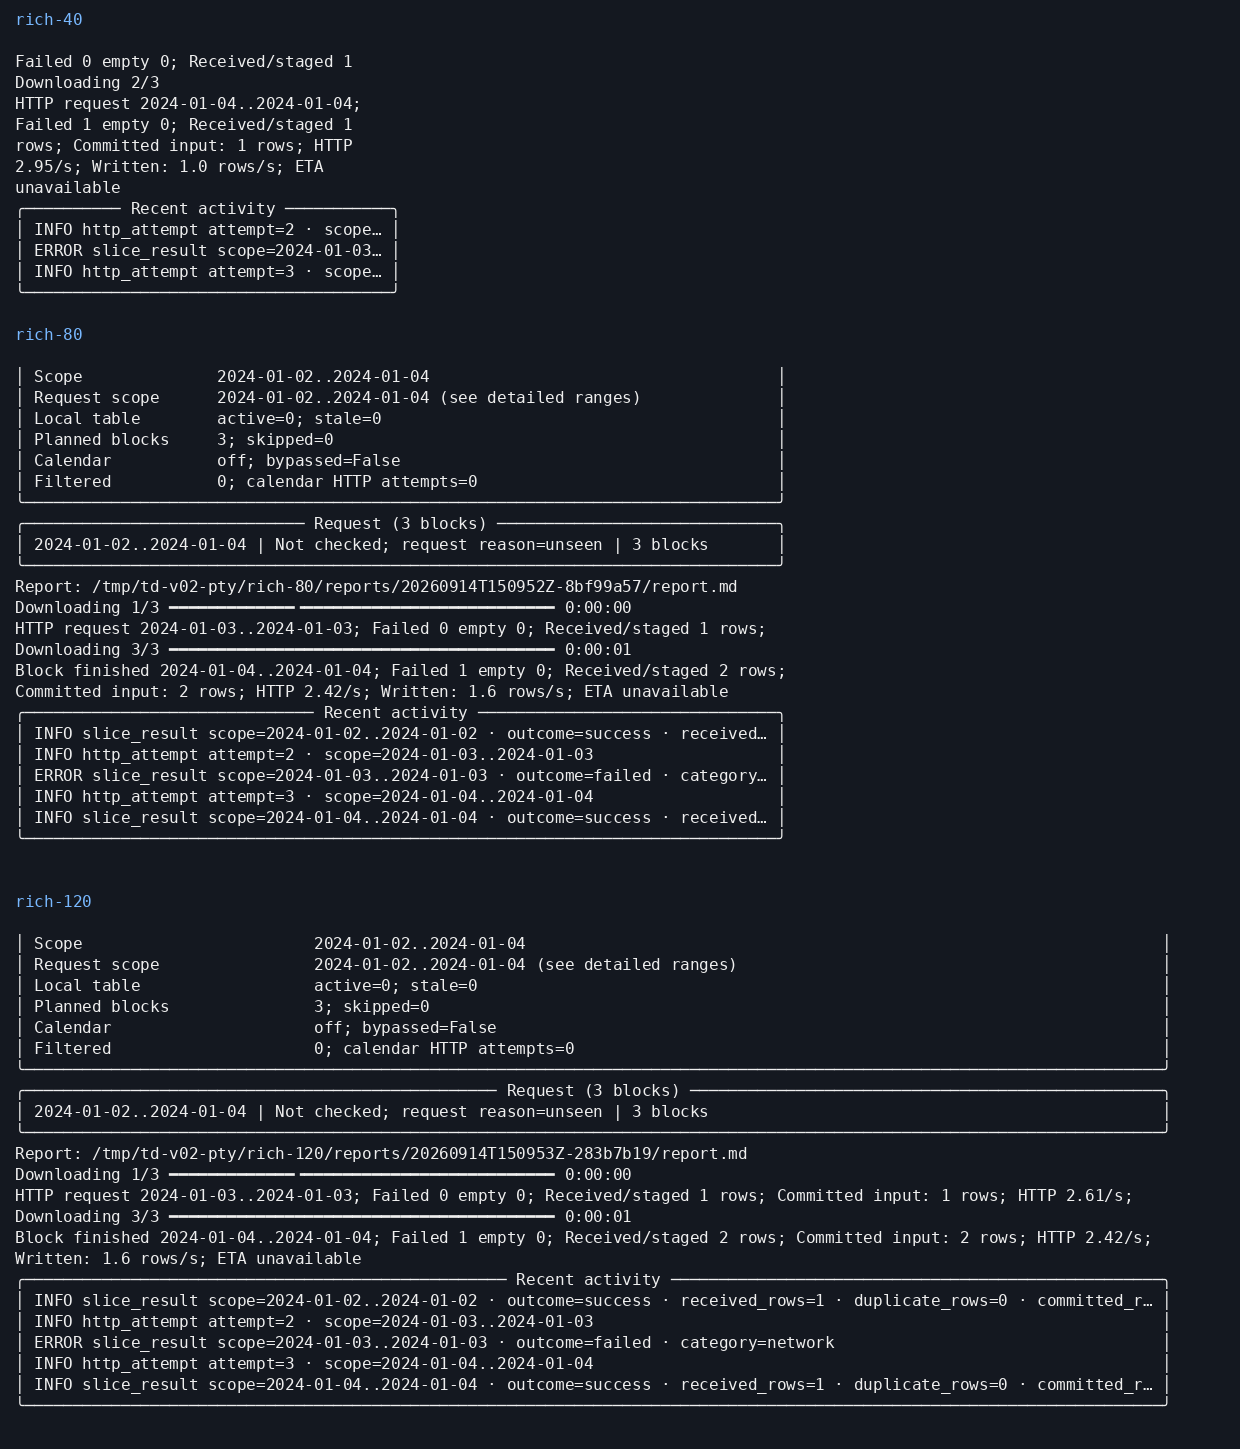
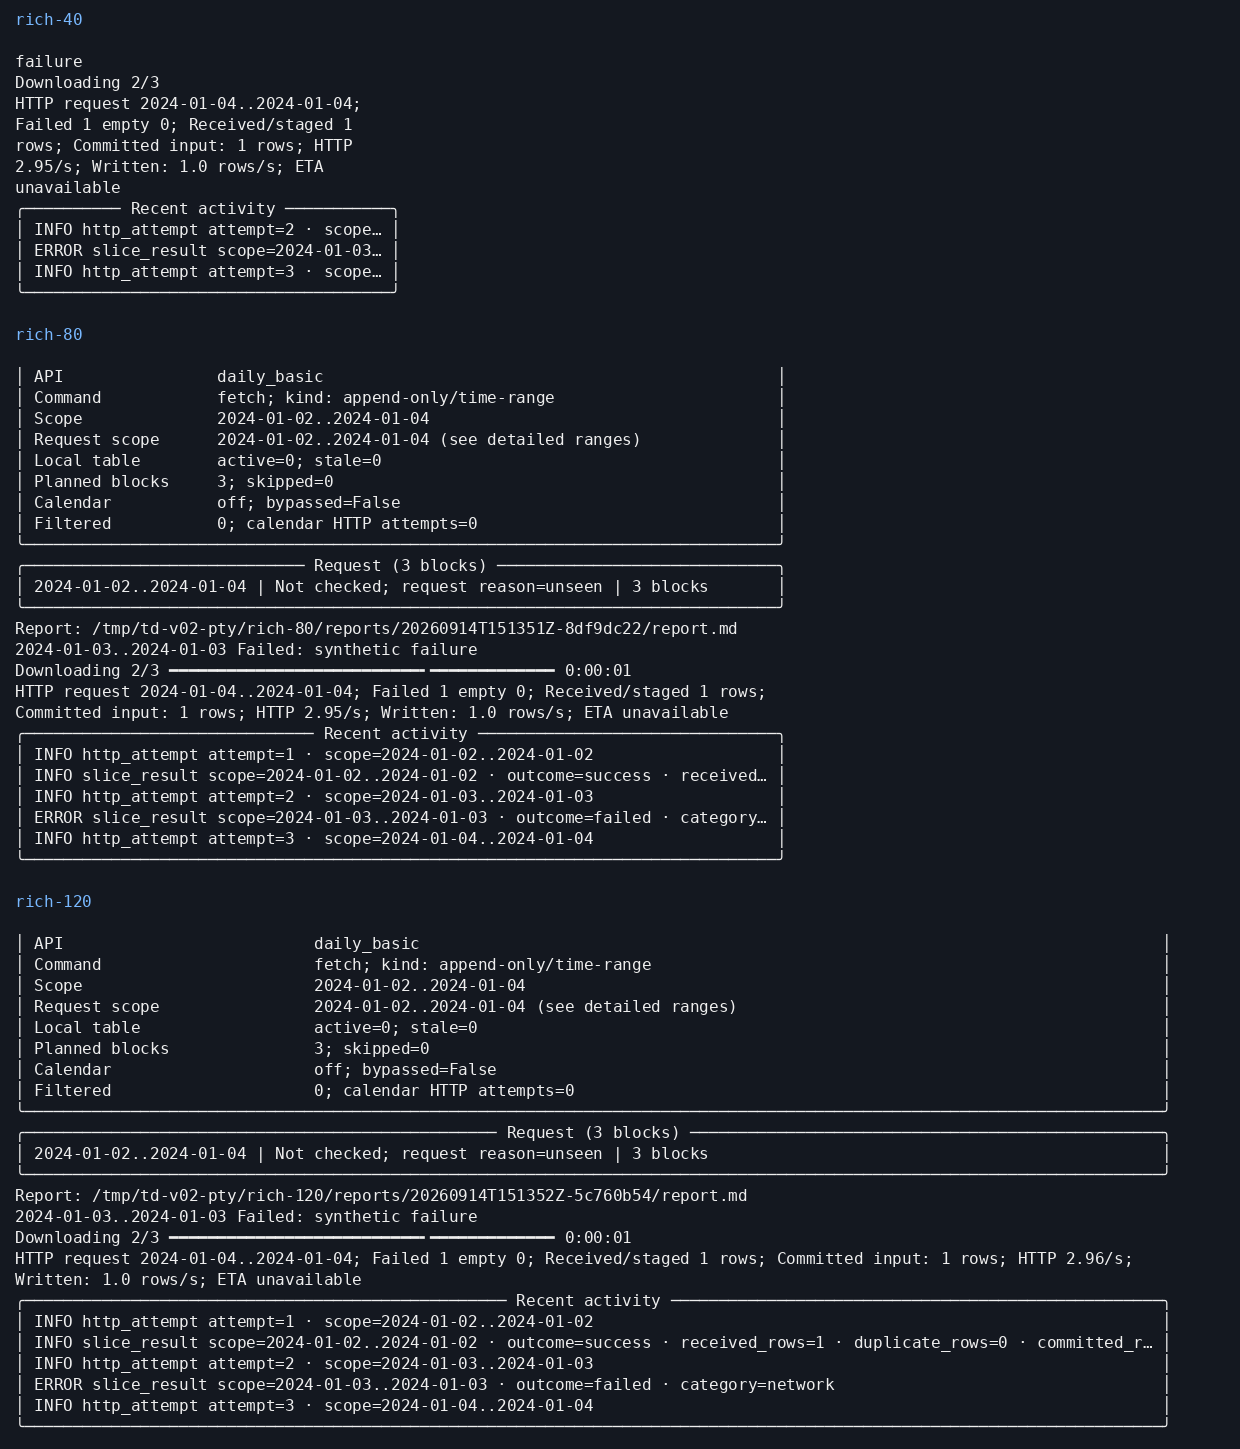
fix: route runtime diagnostics through the active Live console

diff --git a/src/tushare_downloader/reporting.py b/src/tushare_downloader/reporting.py
@@ -188,11 +188,8 @@ class Reporter:
 
     def event(self, event, level=logging.INFO, **fields):
         if self.verbose and not self.quiet and event in {"http_attempt", "calendar_http_attempt"}:
-            click.echo(
-                terminal_text(
-                    f"Request attempt: {fields.get('attempt', 0)} | {fields.get('scope', 'calendar')}"
-                ),
-                err=True,
+            self.diagnostic(
+                f"Request attempt: {fields.get('attempt', 0)} | {fields.get('scope', 'calendar')}"
             )
         if not self.quiet and (level >= logging.INFO or self.verbose):
             message = terminal_text(
@@ -212,14 +209,23 @@ class Reporter:
         except OSError:
             self.output_failure()
 
+    def diagnostic(self, message, *, style=None):
+        """Keep direct diagnostics above Live without corrupting its cursor position."""
+        text = terminal_text(message)
+        with self.lock:
+            if self.progress:
+                self.progress.console.print(Text(text, style=style))
+            else:
+                click.echo(text, err=True)
+
     def output_failure(self):
         if self.io_failed:
             return
         self.io_failed = True
         try:
-            click.echo(
+            self.diagnostic(
                 "Logging failed: log is incomplete; confirmed commits are retained. Execution will fail.",
-                err=True,
+                style="bold red",
             )
         except OSError:
             pass
@@ -354,7 +360,7 @@ class Reporter:
         if not self.quiet and (
             self.verbose or (rich_terminal(self.settings) and self.settings.progress == "off")
         ):
-            click.echo(terminal_text(f"Block: {scope} | {outcome} | committed={rows}"), err=True)
+            self.diagnostic(f"Block: {scope} | {outcome} | committed={rows}")
 
     def subrequest(self, status, outcome, received):
         self.subrequests[status] = (outcome, received)
@@ -469,7 +475,7 @@ class Reporter:
                     Text(terminal_text(f"{stage}: {self.scope}"), style="cyan")
                 )
             else:
-                click.echo(terminal_text(f"Phase: {stage}"), err=True)
+                self.diagnostic(f"Phase: {stage}")
 
     def begin_slice(self, scope):
         with self.lock:

diff --git a/src/tushare_downloader/download.py b/src/tushare_downloader/download.py
@@ -313,7 +313,9 @@ def _execute(
                 attempt=attempt,
                 delay_seconds=delay,
             )
-            click.echo(f"Retry: {category}; attempt {attempt}, waiting {delay:.1f}s.", err=True)
+            reporter.diagnostic(
+                f"Retry: {category}; attempt {attempt}, waiting {delay:.1f}s.", style="yellow"
+            )
 
         def attempt_event(name, attempt):
             reporter.attempt()
@@ -387,7 +389,7 @@ def _execute(
                         outcome="failed",
                         category=error.category,
                     )
-                    click.echo(f"{scope} Failed: {error}", err=True)
+                    reporter.diagnostic(f"{scope} Failed: {error}", style="bold red")
                     stop = error.category in {"business", "http", "tls", "retry_deferred"}
                     stop |= bool(
                         settings.max_consecutive_failed_slices
@@ -408,9 +410,9 @@ def _execute(
                     reporter.event(
                         "slice_result", level=logging.ERROR, scope=scope, outcome=outcome
                     )
-                    click.echo(
+                    reporter.diagnostic(
                         "Database write failed; stopping requests. Unconfirmed commits are not counted as successful.",
-                        err=True,
+                        style="bold red",
                     )
                     stop = True
                 attempts = getattr(client, "attempts", attempts)

diff --git a/tests/unit/test_progress_layout.py b/tests/unit/test_progress_layout.py
@@ -228,3 +228,25 @@ def test_recent_activity_fits_terminal_height(width, height):
     text = "".join(segment.text for line in lines for segment in line)
     assert "HTTP request" in text and "Failed 1" in text
     assert "INFO event 19" in text
+
+
+def test_live_diagnostics_use_own_console_and_escape_source(reporter, monkeypatch):
+    from types import SimpleNamespace
+
+    result, _ = reporter
+    rendered = []
+    result.progress = SimpleNamespace(
+        console=SimpleNamespace(print=rendered.append), stop=lambda: None
+    )
+    monkeypatch.setattr(
+        "tushare_downloader.reporting.click.echo",
+        lambda *a, **k: pytest.fail("Direct output bypassed Live"),
+    )
+    result.diagnostic("[red]source[/red]\x1b[2J", style="bold red")
+    assert rendered[0].plain == "[red]source[/red]"
+    assert rendered[0].style == "bold red"
+    result.verbose = 1
+    result.event("http_attempt", attempt=2, scope="fixture")
+    result.phase("Retry waiting")
+    assert any("Request attempt: 2" in item.plain for item in rendered)
+    assert any("Retry waiting" in item.plain for item in rendered)

diff --git a/docs/development/acceptance-v0.2.0.md b/docs/development/acceptance-v0.2.0.md
@@ -140,3 +140,11 @@ Application `c2c71cb`; real Linux PTYs plus a controlled client and dedicated Po
 Plain/degraded cases contain no ANSI or application carriage-return animation; the PTY line discipline's CRLF is normalized for this assertion. Log/report paths and failure diagnostics remain present. The short-terminal case does not emit clear-line controls. [Scenario assertions](terminal-v0.2.0/summary.json).
 
 [Terminal reconstruction](terminal-v0.2.0/pty-progress.png) was built from captured ANSI through pyte and inspected as a local image. It is a monochrome character-state reconstruction, not a native terminal screenshot or HTML demo. Old progress lines are visible above the activity region in some captured frames; stable-frame capture and redraw behavior still need investigation. Therefore this evidence proves execution/control-sequence behavior but does not close G05 visual acceptance. Raw captures remain locally under /tmp/td-v02-pty; the exported HTML was not opened through a browser workaround.
+
+## Live redraw defect resolved (2026-09-14)
+
+The PTY capture exposed a real defect: direct Click stderr diagnostics bypassed the Live console and appended text to its bottom line, moving the cursor beyond Rich's recorded region. Raw frame analysis found an 80-column panel line extended to 128 characters before the next cursor rewind.
+
+Diagnostics during Live now use that same Console; retry/error messages, verbose attempts/phases and block messages are printed above the live region with terminal controls sanitized. Plain/quiet behavior remains unchanged. A regression rejects direct click.echo use while Live is active and verifies literal markup/control sanitization.
+
+Repeated all thirteen actual PTY scenarios after the fix. Exit codes, data counts and degradation assertions passed again. Inspected the updated [terminal reconstruction](terminal-v0.2.0/pty-progress.png): one current progress region, no old progress rows remaining, errors appear above Live at 80/120 columns, and the 40-column activity region retains failure counts and recent events. This resolves the previously recorded redraw concern for these representative scenarios; the image is a monochrome reconstruction rather than a native screenshot. The earlier defective image remains in Git history at 6831676.
